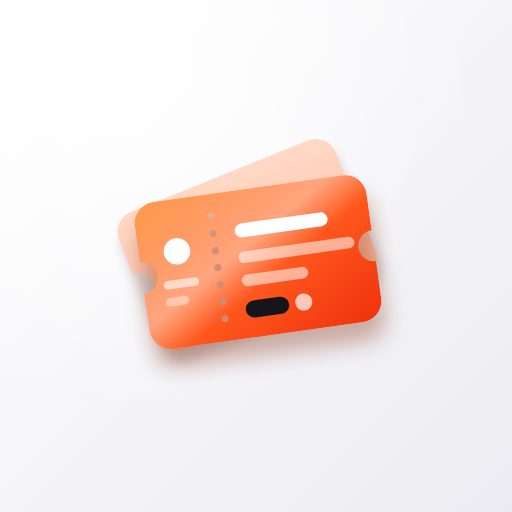
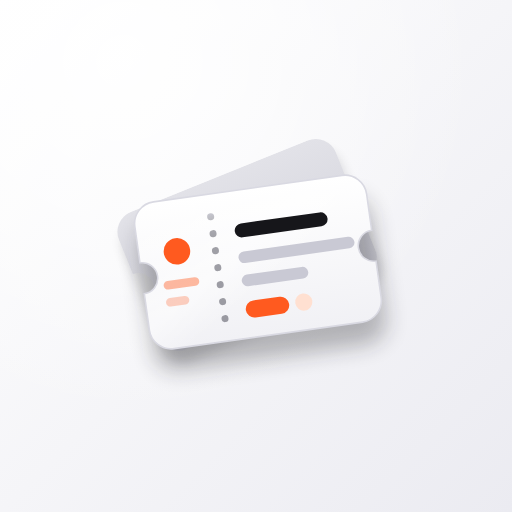
앱 아이콘: 3안(흰 바탕 위 흰 종이 티켓 + 연회색 뒤 장) 적용, sw v30

Changed region(s): [[0.2188, 0.25, 0.75, 0.6875]]

diff --git a/design/icons-2026-08/gallery.html b/design/icons-2026-08/gallery.html
@@ -78,7 +78,7 @@
 <div class="grid">
 
 <div class="card">
-  <h3>1 · 흰 바탕, 오렌지 티켓 두 장 <span class="tag">적용</span></h3>
+  <h3>1 · 흰 바탕, 오렌지 티켓 두 장</h3>
   <p>앱 강조색이 티켓 자체에만. 흰 바탕이라 밝은 배경화면에서도 티켓 덕에 구분됨. 뒤 장은 살구색.</p>
   <div class="row">
     <div class="big"><svg id="w1" viewBox="0 0 512 512" xmlns="http://www.w3.org/2000/svg">
@@ -112,7 +112,7 @@
 </div>
 
 <div class="card">
-  <h3>3 · 흰 바탕, 흰 종이 티켓 <span class="tag q">화이트 온 화이트</span></h3>
+  <h3>3 · 흰 바탕, 흰 종이 티켓 <span class="tag">적용</span></h3>
   <p>가장 "흰 계열". 종이 티켓을 테두리와 그림자만으로 띄움. 세련되지만 밝은 배경화면에선 흐릿할 수 있음.</p>
   <div class="row">
     <div class="big"><svg id="w3" viewBox="0 0 512 512" xmlns="http://www.w3.org/2000/svg">
@@ -143,7 +143,7 @@
 </div>
 
 </div>
-<div class="note"><b>1번을 앱에 적용해 둠.</b> 번호만 말해주면 바꿈. 색(오렌지 → 다른 색), 기울기, 뒤 장 유무도 숫자 몇 개라 금방.</div>
+<div class="note"><b>3번을 앱에 적용함.</b> 번호만 말해주면 바꿈. 색(오렌지 → 다른 색), 기울기, 뒤 장 유무도 숫자 몇 개라 금방.</div>
 
 <details><summary>이전 시안 — 오렌지 바탕 (폐기)</summary>
 <div class="grid" style="margin-top:14px">

diff --git a/sw.js b/sw.js
@@ -1,5 +1,5 @@
 /* 티켓 보관함 서비스워커 — 앱 셸 캐시(오프라인 지원) */
-const CACHE='tm-shell-v29';
+const CACHE='tm-shell-v30';
 const ASSETS=['./','./index.html','./app.css','./app.js','./data.js','./manifest.webmanifest','./icon-192.png','./icon-512.png','./icon-180.png','./icon-maskable-512.png'];
 
 self.addEventListener('install',e=>{
